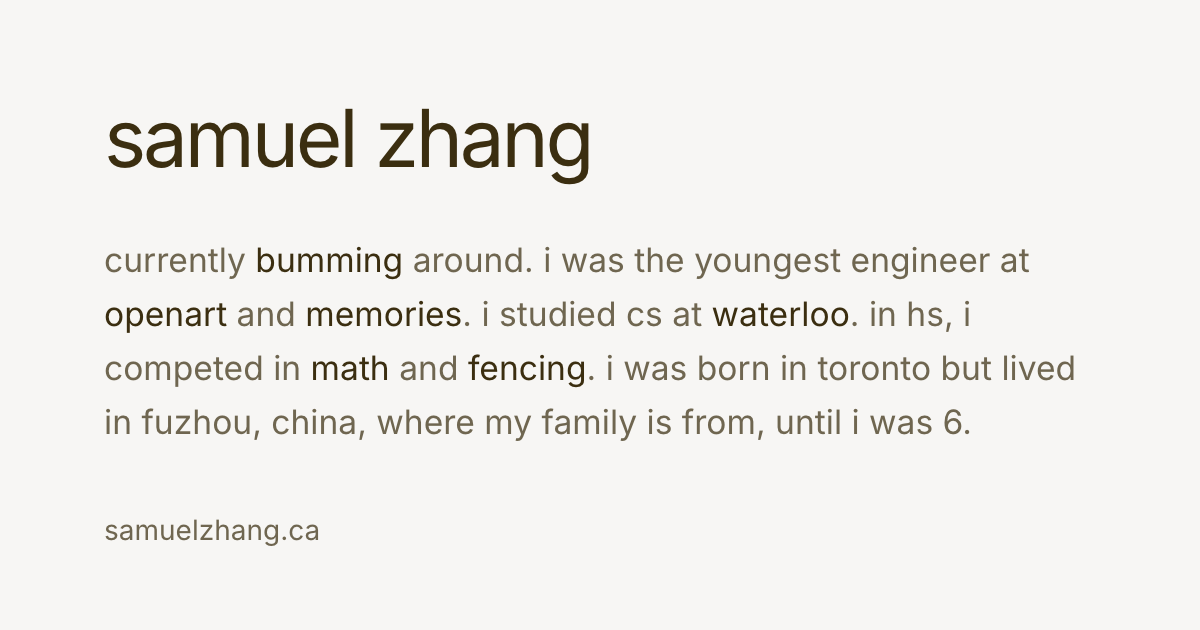
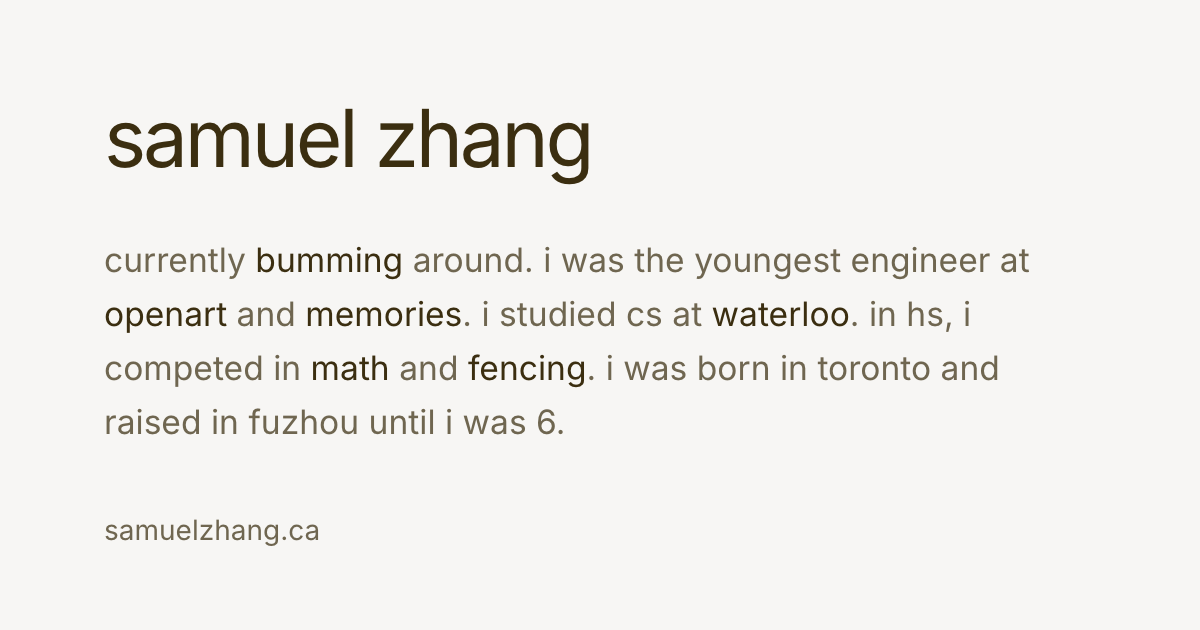
Trim the bio's last sentence

Changed region(s): [[0.0925, 0.6333, 0.8017, 0.6937], [0.7708, 0.573, 0.8942, 0.6032]]

diff --git a/src/config.tsx b/src/config.tsx
@@ -38,7 +38,7 @@ const BIO: (string | { text: string; href: string })[] = [
         text: 'fencing',
         href: 'https://www.fencingtimelive.com/events/results/BEC40366CA3F43759C8193EBF16BAD6E',
     },
-    '. i was born in toronto but lived in fuzhou, china, where my family is from, until i was 6.',
+    '. i was born in toronto and raised in fuzhou until i was 6.',
 ]
 
 type Config = {
